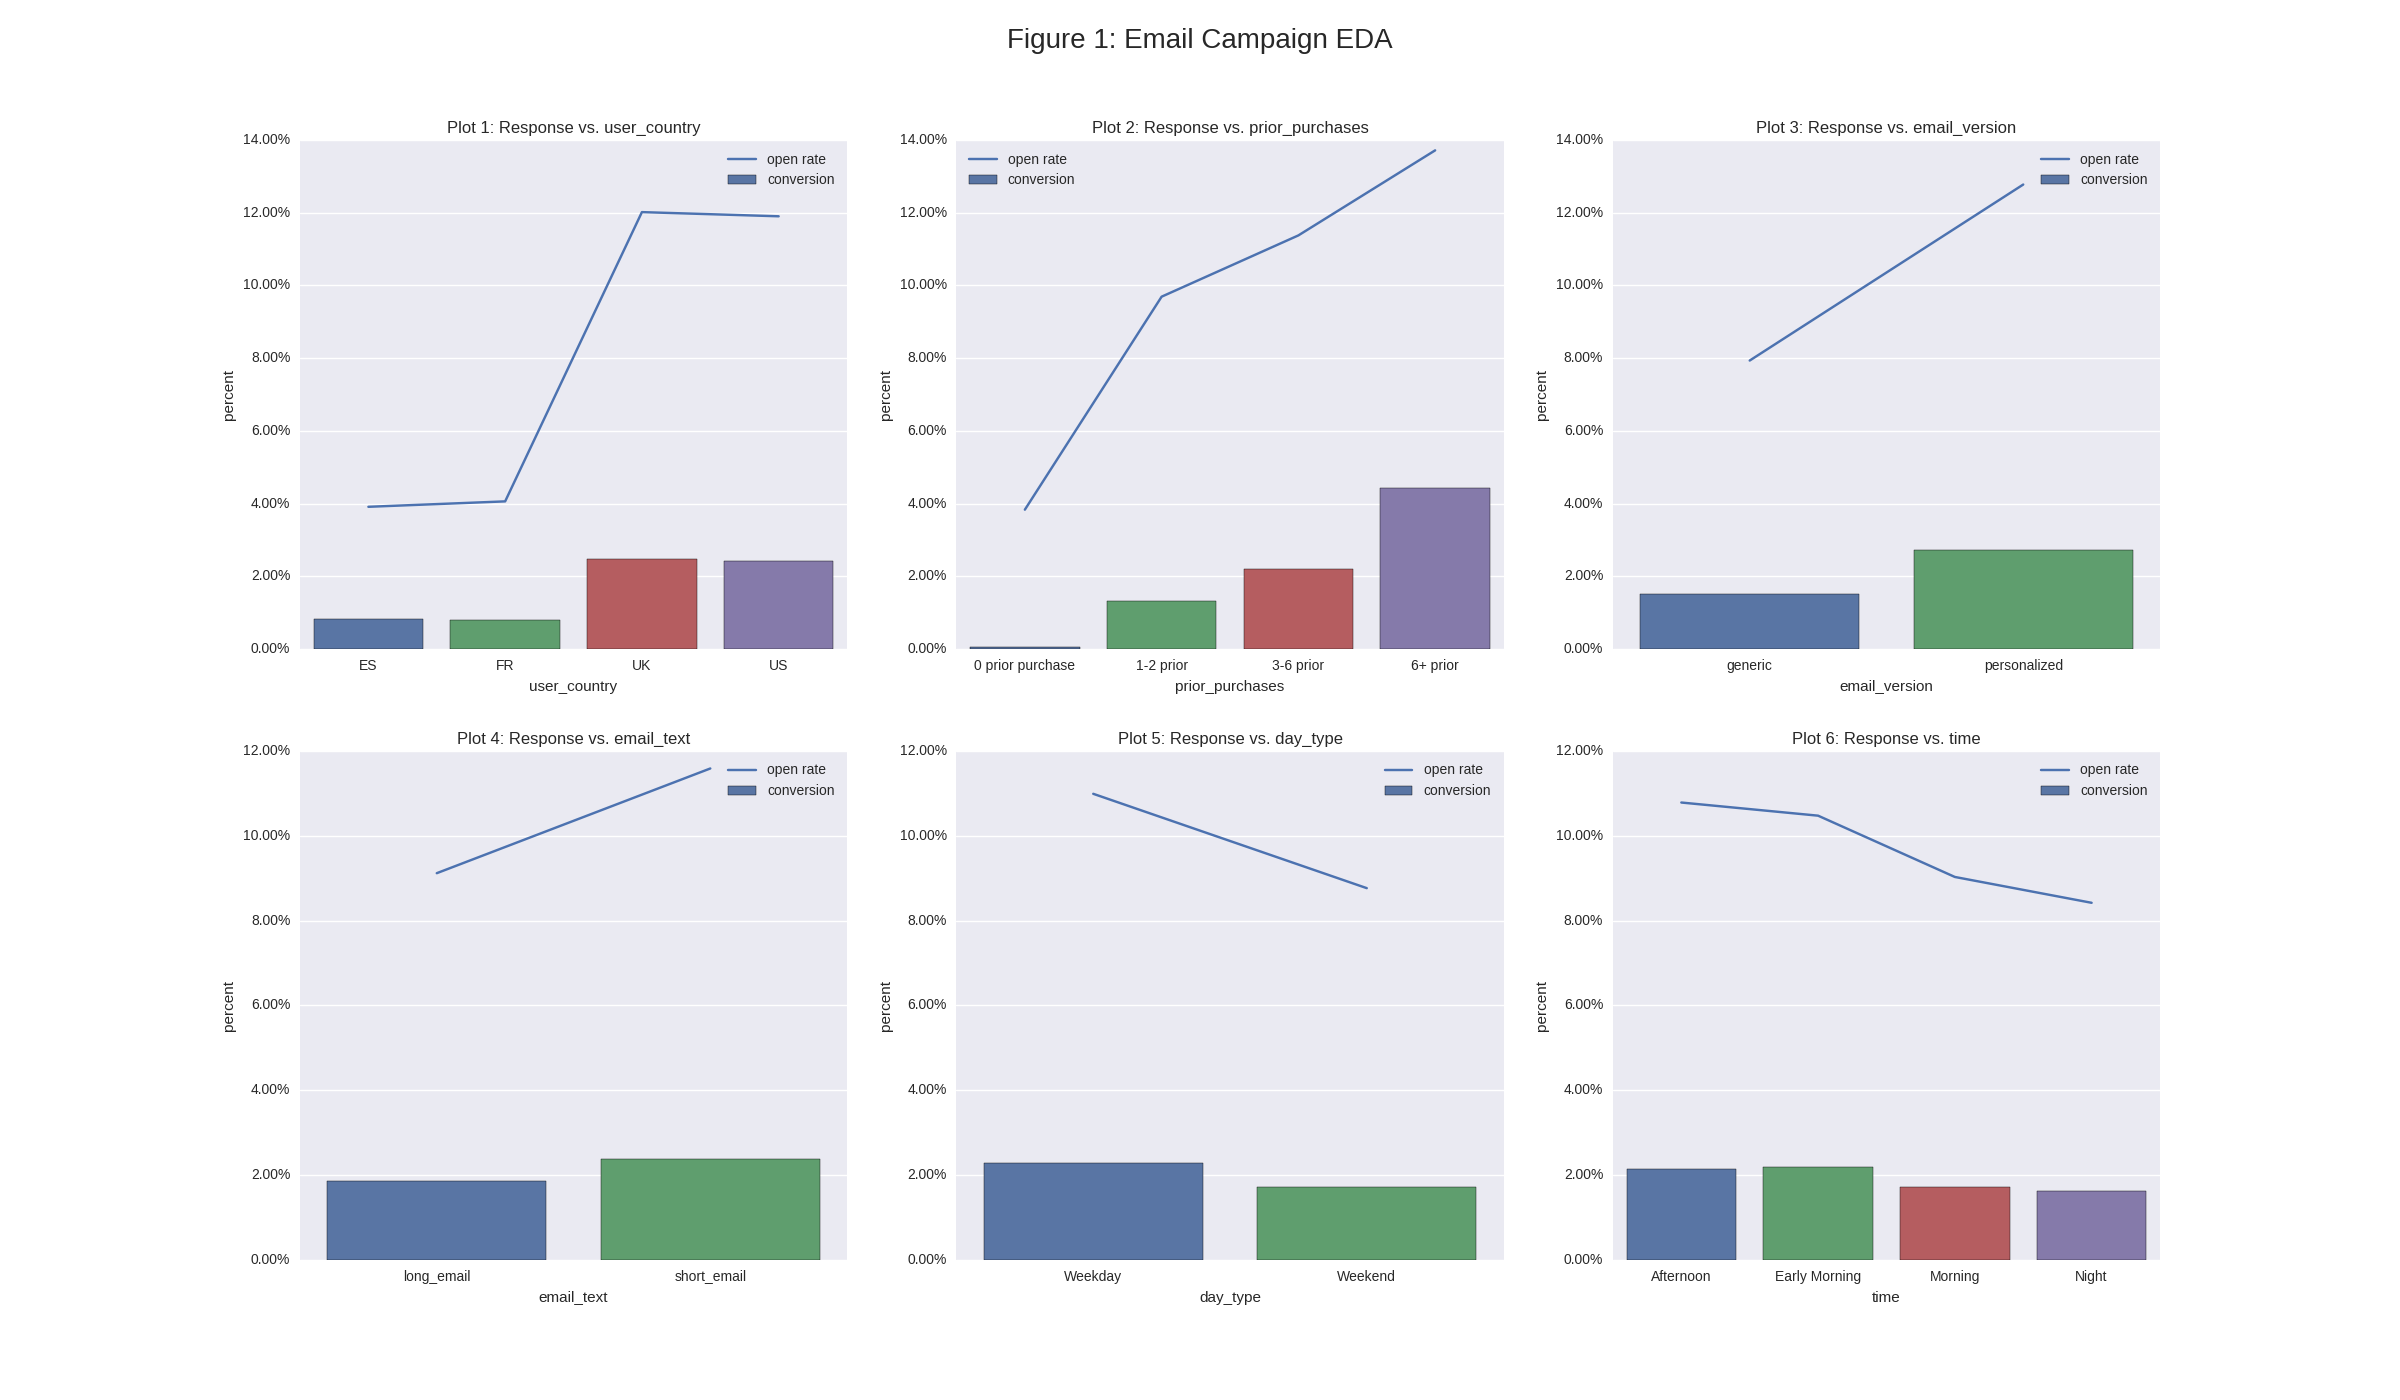
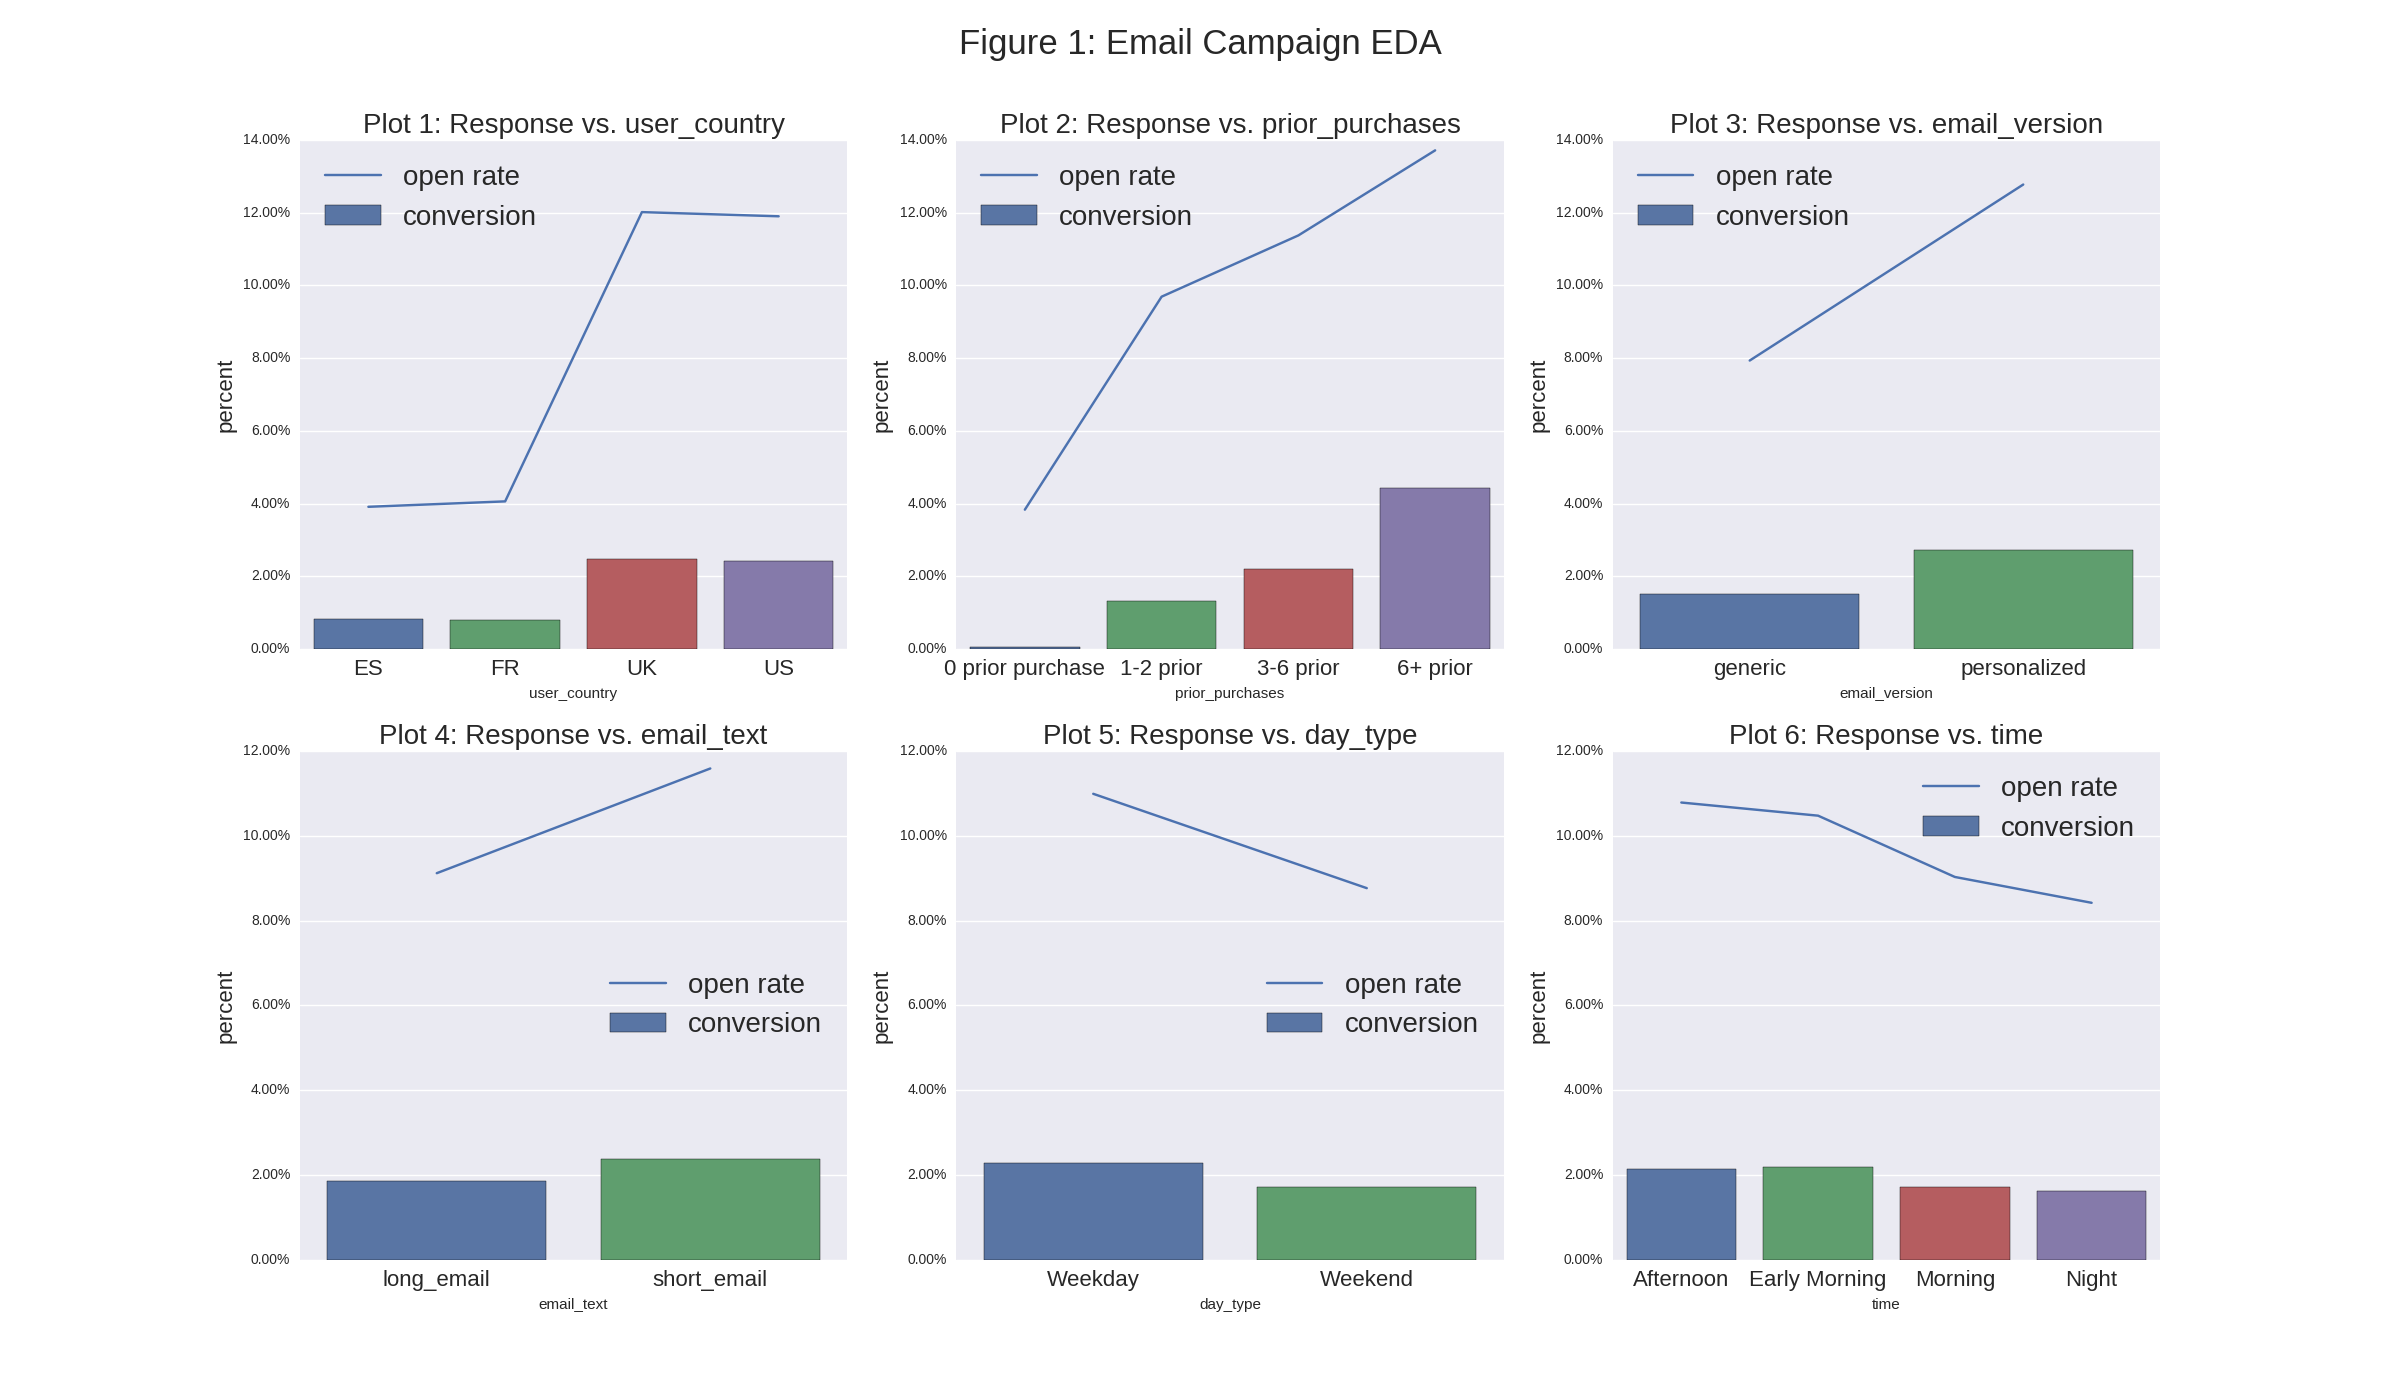
prettify

diff --git a/data.py b/data.py
@@ -66,12 +66,12 @@ def eda(graph=True):
 
     plot=[country,purchases, email_type, email_text, days, time]
     fig = plt.figure(1, figsize=(24, 14))
-    plt.suptitle('Figure 1: Email Campaign EDA', fontsize=20)
+    plt.suptitle('Figure 1: Email Campaign EDA', fontsize=25)
     import sampling
     for i,j in enumerate(plot):
         ax=fig.add_subplot(2,3,i+1)
 
-        plt.title('Plot {}: Response vs. {}'.format(i+1,j.index.name))
+        plt.title('Plot {}: Response vs. {}'.format(i+1,j.index.name),fontsize=20)
 
 
         # for h in range(len(j)):
@@ -84,13 +84,15 @@ def eda(graph=True):
 
         sb.barplot(j.index,j['conv'],label='conversion')
         plt.plot(range(len(j.index)),j['opr'],label='open rate')
-        ax.legend(loc=0)
+        ax.legend(loc=0,fontsize=20)
+
         fmt = '%.2f%%'
         yticks = mtick.FormatStrFormatter(fmt)
         ax.yaxis.set_major_formatter(yticks)
 
-        plt.ylabel('percent')
+        plt.ylabel('percent',fontsize=16)
 
+        plt.xticks(fontsize=16)
     if graph:
         plt.show()
 
